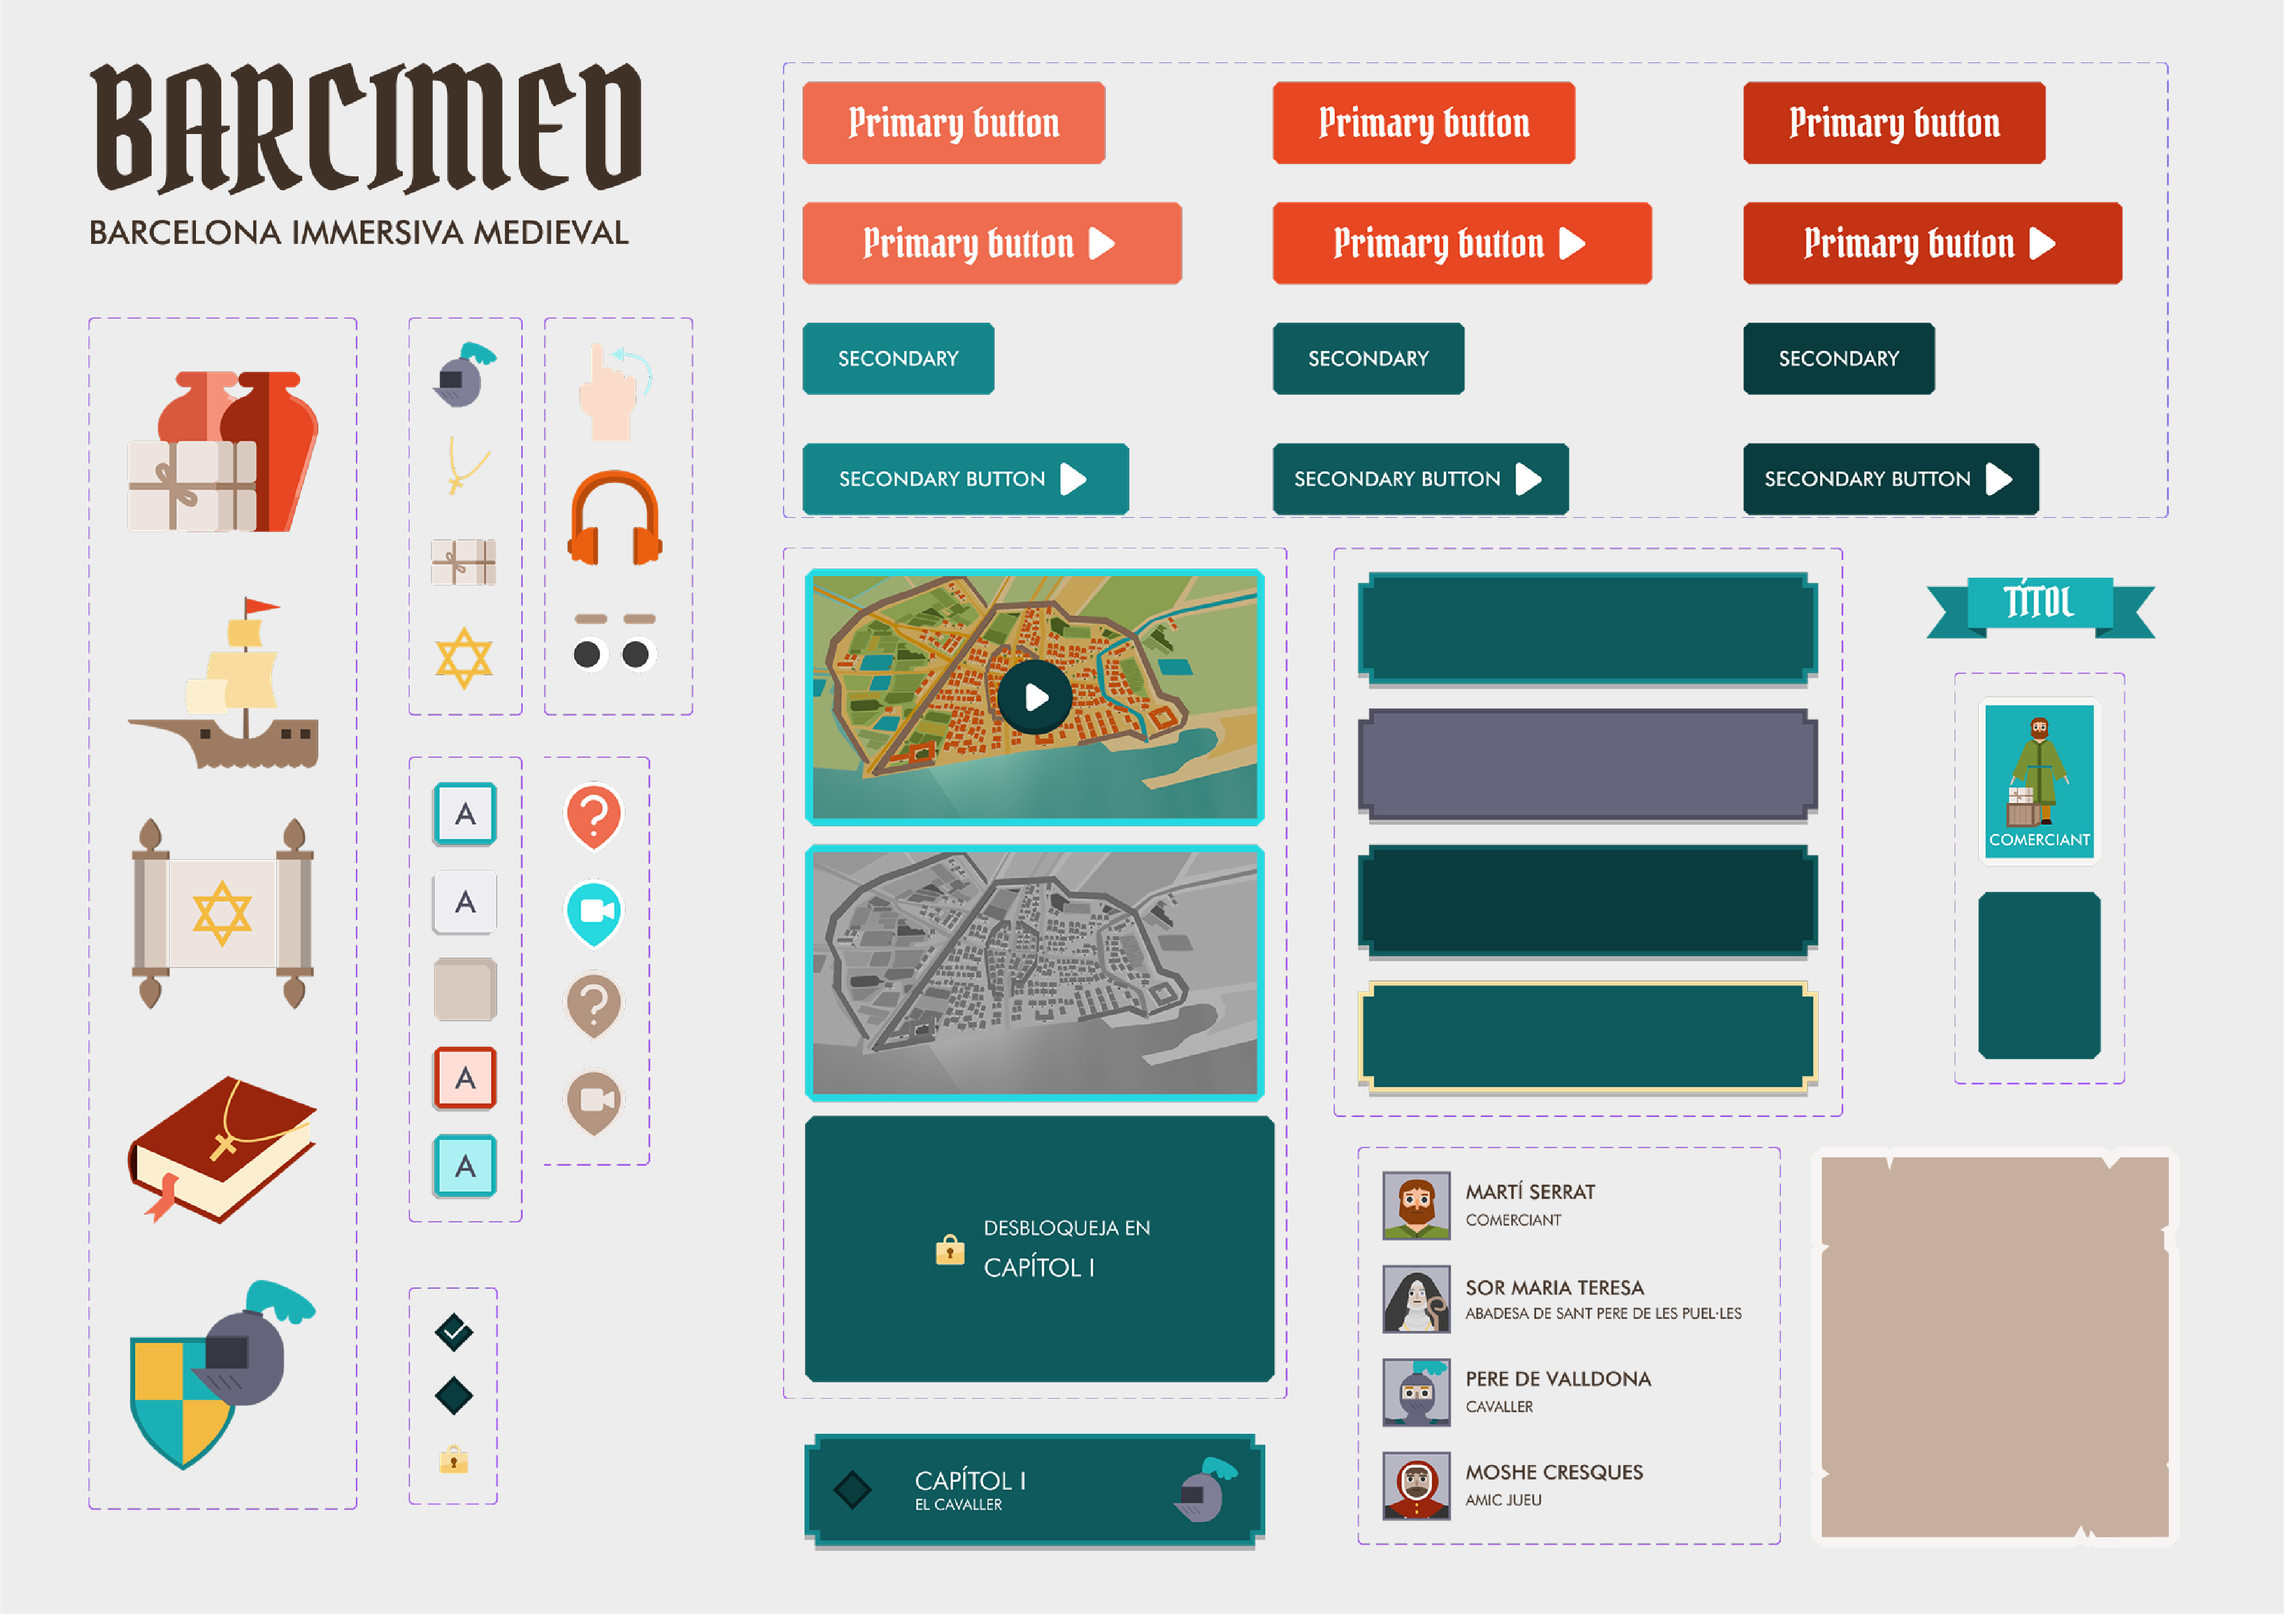
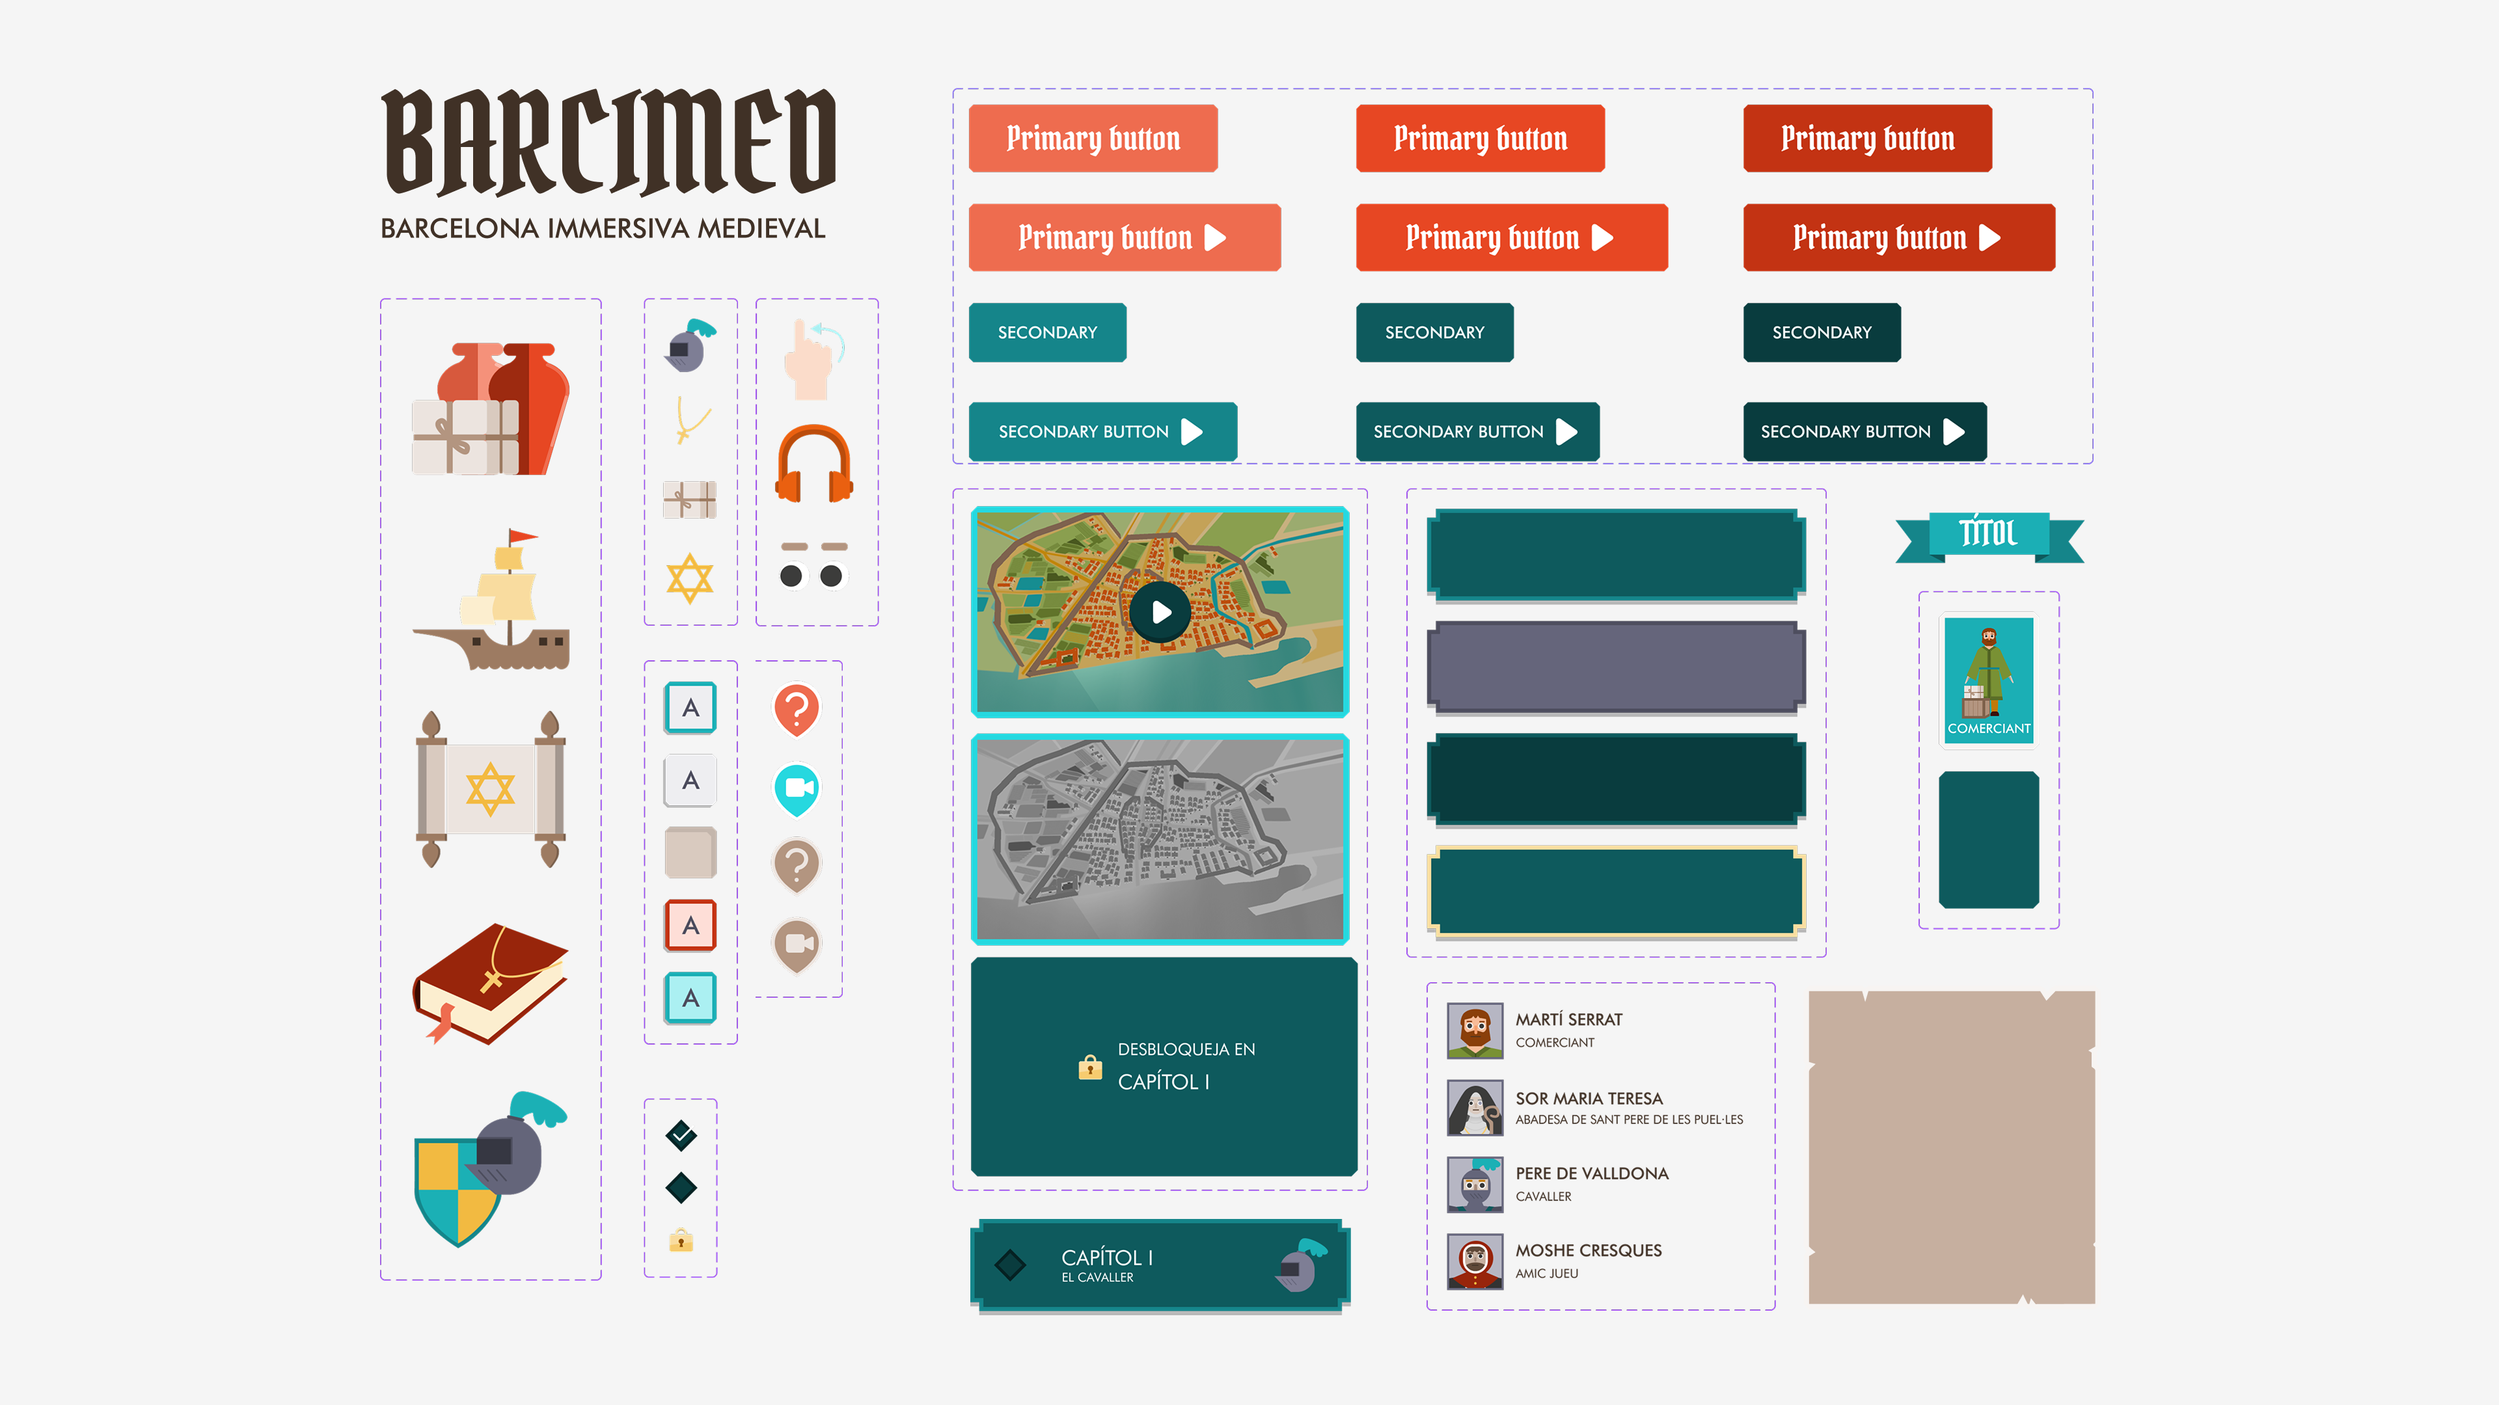
barcimed content

diff --git a/nuriaportfoliosite/src/components/DetailExplanations/barcimed.js b/nuriaportfoliosite/src/components/DetailExplanations/barcimed.js
@@ -103,8 +103,8 @@ export default function Barcimed() {
                         <p className="font-manrope">An interactive web app that guides users on a city route, where they solve puzzles by observing their surroundings to unlock immersive 360° videos and educational content in the form of cards.</p>
                     </div>
                 } />
-            <div className="mx-auto mt-8 w-full max-w-7xl px-6 lg:px-8">
-                <div className="mx-auto w-full max-w-[560px] lg:max-w-[680px]">
+            <div className="mx-auto mt-8 w-full max-w-md px-6 lg:px-8">
+                <div className="mx-auto w-full max-w-[560px] lg:max-w-[620px]">
                     <div className="relative">
                         <div className="absolute left-[6.5%] top-[3%] z-0 h-[94%] w-[86%] overflow-hidden rounded-[1.1rem] bg-black sm:rounded-[3rem]">
                             <video
@@ -134,7 +134,7 @@ export default function Barcimed() {
             <DetailSection titleh1="Visual Design"
                 rightContent={
                     <div>
-                        <p className="font-manrope">The project targets Barcelona’s local population, especially those interested in cultural leisure. While mainly aimed at young people (ages 10–30), it is designed to be enjoyable for audiences of all ages.</p>
+                        <p className="font-manrope">The visual design is inspired by the natural colors of the city during that period: blues representing the sea, browns for houses and wood, and orange used for contrast. The typography combines a Gothic-style typeface with a pirate-inspired font, along with Futura for readable body text.</p>
                     </div>
                 } />
             <DoubleImage src1={"/imatges/Barcimed/colors.png"} src2={"/imatges/Barcimed/fonts.png"}></DoubleImage>
@@ -163,6 +163,11 @@ export default function Barcimed() {
                         />
                     </div>
                 </div>
+            </div>
+                        <div className="mx-auto mt-8 w-full max-w-7xl px-6 lg:px-8">
+                <p className="font-manrope lg:w-1/2">
+                    The 360° videos are experienced along the route, depicting scenes in the same locations where they are viewed. Users can look around and explore freely, enhancing the sense of immersion.
+                </p>
             </div>
             <hr className="space-y-4 border-t border-[#270400]/10" />
             <DetailSection titleh1="User testing and Results"
